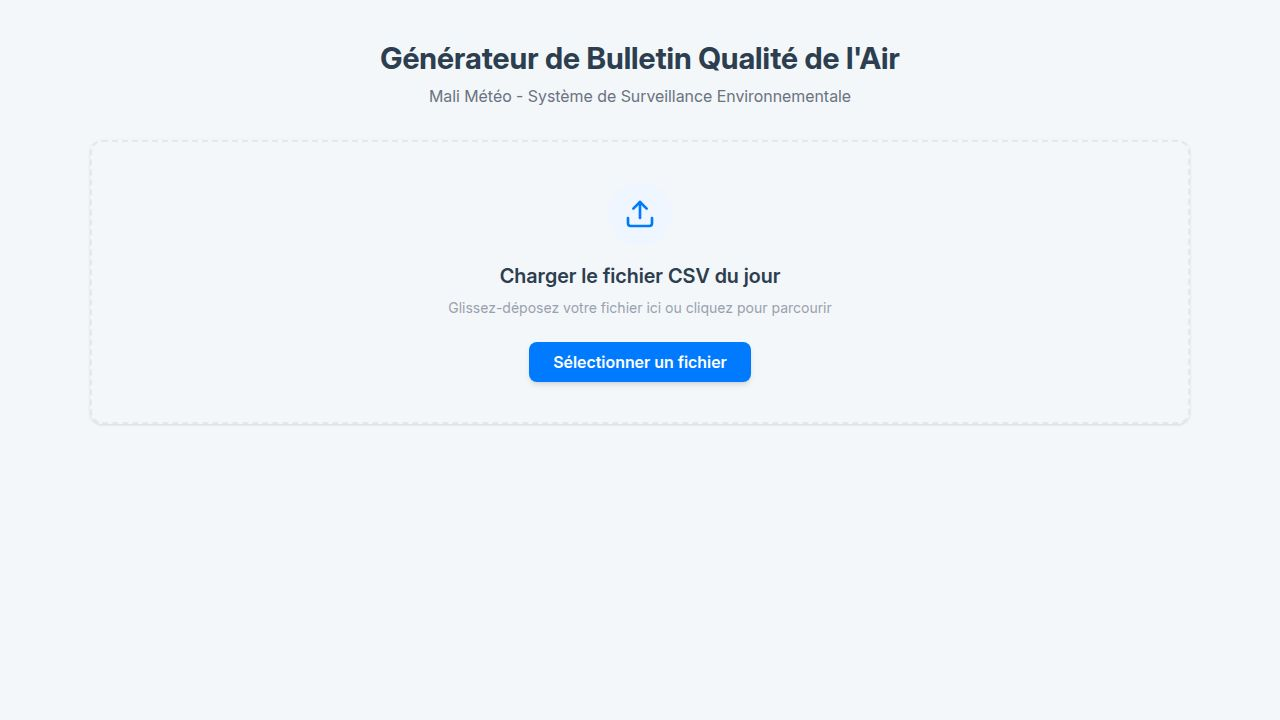
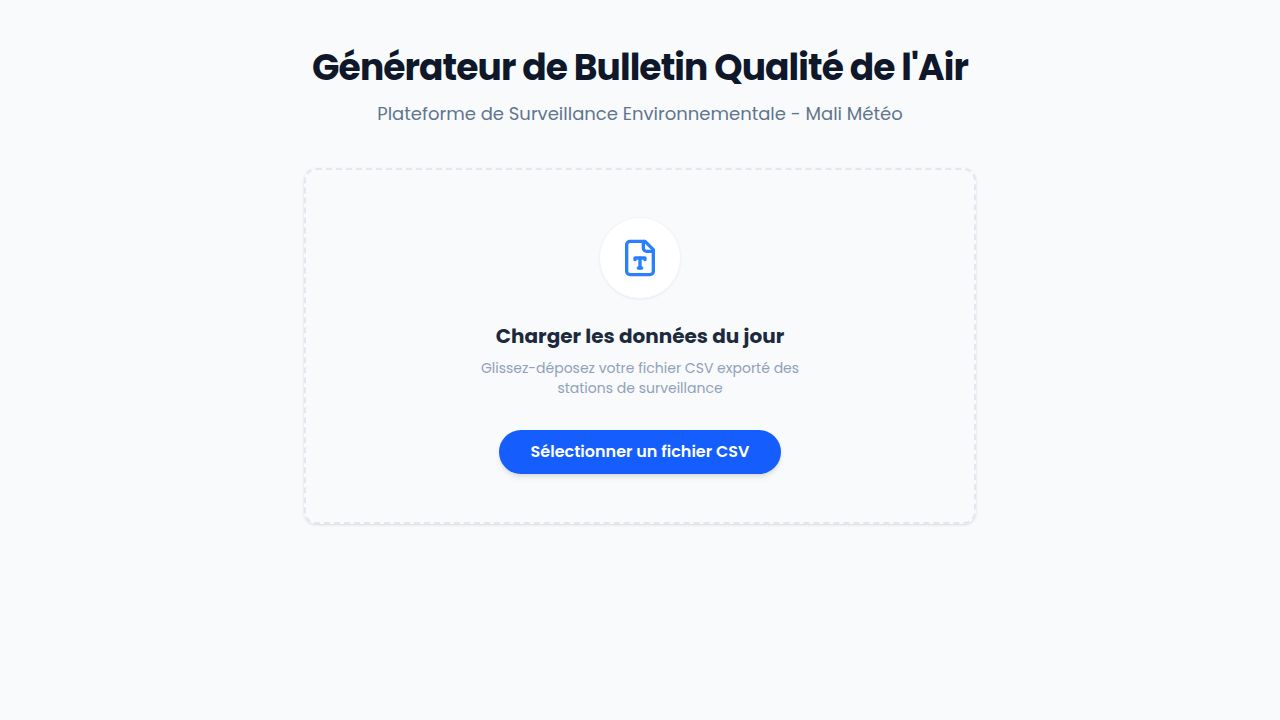
Update header styling and improve date display for PDF exports
Adds Montserrat font, adjusts header typography and spacing, and enforces nowrap and min-width for the date block to prevent formatting issues during PDF generation.

Replit-Commit-Author: Agent
Replit-Commit-Session-Id: 17601c46-9573-4126-81c1-e054c26c8427
Replit-Commit-Checkpoint-Type: full_checkpoint
Replit-Commit-Event-Id: 02414f70-a57c-42b6-a183-a35fde6f9ac1
Replit-Commit-Screenshot-Url: https://storage.googleapis.com/screenshot-production-us-central1/658314b0-8322-4ac0-9a36-c8b9b756b662/17601c46-9573-4126-81c1-e054c26c8427/G3u5osY
Replit-Helium-Checkpoint-Created: true

Changed region(s): [[0.25, 0.0611, 0.75, 0.1833], [0.3438, 0.275, 0.625, 0.55], [0.375, 0.5806, 0.625, 0.6722]]

diff --git a/client/src/styles/bulletin.css b/client/src/styles/bulletin.css
@@ -54,16 +54,21 @@
 
 .header-text h2 {
   margin: 0;
-  font-size: 24px;
+  font-family: 'Montserrat', sans-serif;
+  font-size: 28px; /* Slightly larger */
   font-weight: 700;
-  line-height: 1.2;
+  line-height: 1.1;
+  letter-spacing: 0.5px;
 }
 
 .header-text p {
-  margin: 5px 0 0 0;
-  font-size: 14px;
+  margin: 4px 0 0 0;
+  font-family: 'Montserrat', sans-serif;
+  font-size: 13px;
   opacity: 0.9;
-  font-weight: 400;
+  font-weight: 500;
+  letter-spacing: 1px;
+  text-transform: uppercase;
 }
 
 /* STYLE DU BLOC DATE */
@@ -71,7 +76,8 @@
   display: flex;
   flex-direction: column;
   align-items: flex-end;
-  text-align: right; 
+  text-align: right;
+  min-width: 200px; /* Ensure it doesn't squash */
 } 
 
 .date-block {
@@ -80,25 +86,29 @@
   display: flex;
   flex-direction: column;
   align-items: flex-end;
+  white-space: nowrap; /* Prevent wrapping */
 }
 
 .date-info p { 
-  font-weight: 400;
-  font-size: 12px;
-  margin: 0 0 5px 0; 
-  opacity: 0.8;
+  font-family: 'Montserrat', sans-serif;
+  font-weight: 500;
+  font-size: 11px;
+  margin: 0 0 2px 0; 
+  opacity: 0.9;
   line-height: 1;
   text-transform: uppercase;
+  letter-spacing: 1px;
 }
 
 .date-info strong { 
+  font-family: 'Montserrat', sans-serif;
   font-weight: 700;
-  font-size: 32px; 
+  font-size: 36px; /* Slightly larger */
   line-height: 1;
   white-space: nowrap;
   color: white;
   margin: 0;
-  letter-spacing: 1px;
+  letter-spacing: 0.5px;
   text-shadow: none;
 }
 

diff --git a/client/index.html b/client/index.html
@@ -10,8 +10,8 @@
     
     <link rel="icon" type="image/png" href="/favicon.png" />
     
-    <!-- Google Fonts: Poppins -->
-    <link href="https://fonts.googleapis.com/css2?family=Poppins:wght@300;400;600;700&display=swap" rel="stylesheet">
+    <!-- Google Fonts: Poppins & Montserrat -->
+    <link href="https://fonts.googleapis.com/css2?family=Poppins:wght@300;400;600;700&family=Montserrat:wght@400;500;600;700&display=swap" rel="stylesheet">
     
     <!-- FontAwesome -->
     <link rel="stylesheet" href="https://cdnjs.cloudflare.com/ajax/libs/font-awesome/6.0.0-beta3/css/all.min.css">
